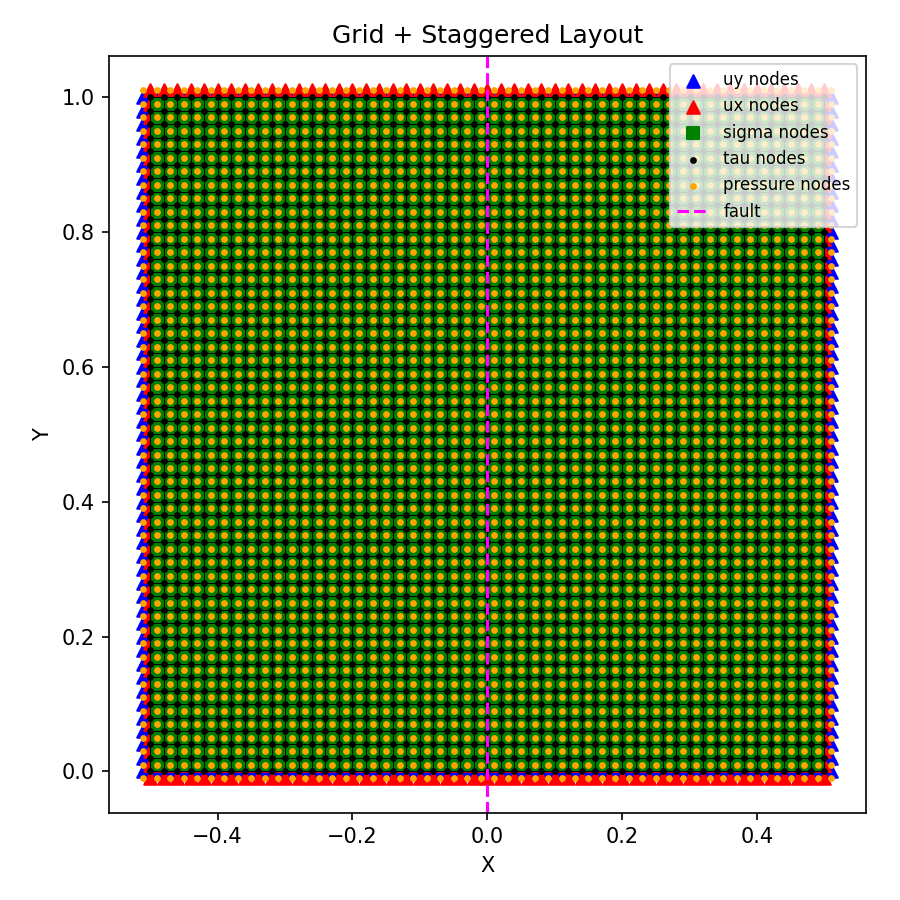
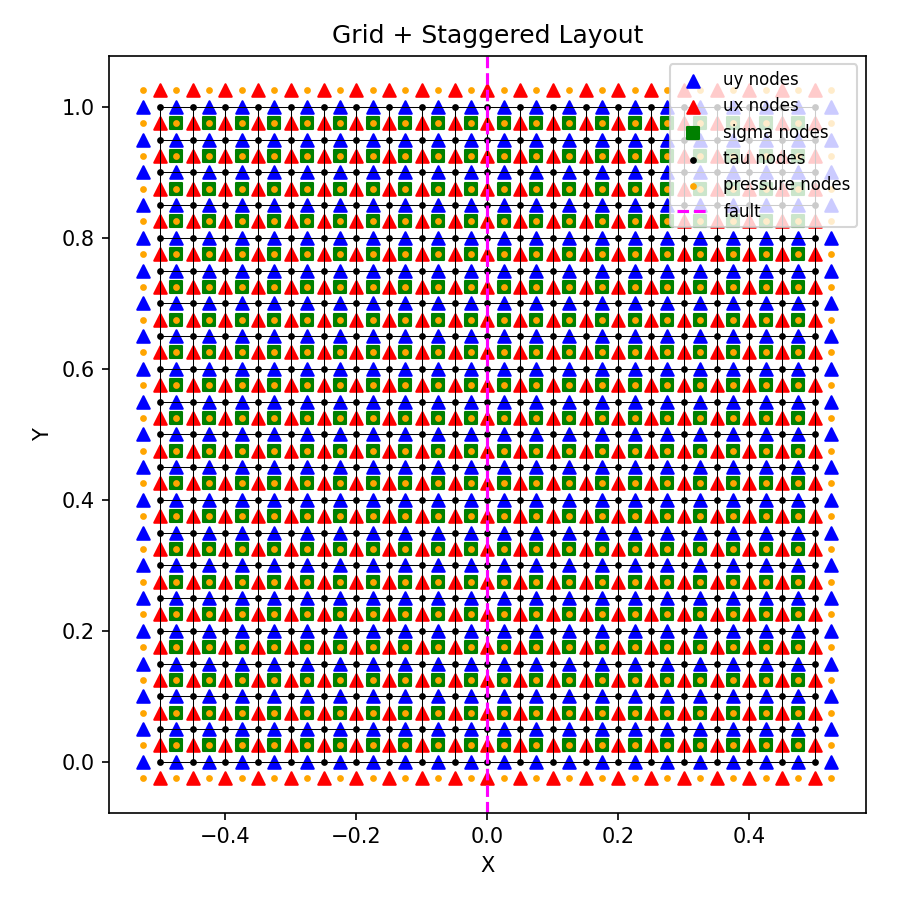
add structured para

diff --git a/src/fastslippy/pre_processing/model_parameters.py b/src/fastslippy/pre_processing/model_parameters.py
@@ -11,7 +11,41 @@ __license__     = "MIT License"
 
 import numpy as np
 
+from enum import Enum
 from dataclasses import dataclass, field
+
+class BCType(str, Enum):
+    FIXED = "fixed"
+    FREE = "free"
+    VELOCITY = "velocity"
+
+@dataclass
+class BoundaryConditions:
+    """Boundary conditions for the model. Edit the defaults here 
+    or pass keyword arguments to the constructor."""
+    left: BCType = BCType.FIXED
+    right: BCType = BCType.VELOCITY
+    top: BCType = BCType.FIXED
+    bottom: BCType = BCType.FIXED
+
+class LoadingRegion(str, Enum):
+    RIGHT_BLOCK = "right_block"
+    LEFT_BLOCK = "left_block"
+
+@dataclass
+class LoadingConditions:
+    """Loading conditions for the model. Edit the defaults here 
+    or pass keyword arguments to the constructor."""
+
+    yr = 365 * 24 * 3600.0      # Seconds in a year
+    tload: float = 0.0 * yr     # Time to apply pressure rate change [s]
+
+    # --- Pressure rate ---
+    dPdt_pre: float = 0.0       # Pressure rate before depletion [Pa/s]
+    dPdt_post: float = -0.0127  # Pressure rate after depletion starts [Pa/s]
+
+    region: LoadingRegion = (LoadingRegion.RIGHT_BLOCK)
+    loading_velocity: float = 1e-9
 
 @dataclass
 class ModelParameters:
@@ -29,7 +63,7 @@ class ModelParameters:
     Ny: int = 11                # Vertical grid points    (must be odd)
 
     # --- Material ---
-    rho: float = 2650 #2400.0          # Rock density [kg/m³]
+    rho: float = 2650            # Rock density [kg/m³]
     rhof: float = 1150.0         # Fluid density [kg/m³]
     rhog: float = 200.0          # Gas density [kg/m³]
     Vp: float = 0.0              # Far-field loading rate [m/s]
@@ -37,9 +71,10 @@ class ModelParameters:
     nu: float = 0.25             # Poisson's ratio
     g: float = 9.81              # Gravitational acceleration [m/s²]
     K0: float = 0.75             # Ratio σ_min / σ_max
-    E: float = 0.0              # Young's modulus [Pa] 
+    E: float = 0.0               # Young's modulus [Pa] 
 
     # --- Rate-and-state defaults (used when heterogeneous profile is off) ---
+    friction_law: str = "rate_state"
     mu0: float = 0.72             # Reference friction coefficient
     V0: float = 1e-6             # Reference slip rate [m/s]
     a0: float = 0.0012             # Direct effect (homogeneous fallback)
@@ -52,12 +87,6 @@ class ModelParameters:
     Nt: int = 1000               # Number of time steps
     dt_init: float = 1e-5         # Initial time step [s]
     dt_max: float = 0.002          # Maximum time step [s]
-    yr = 365 * 24 * 3600.0       # Seconds in a year
-    tload: float = 0.0 * yr     # Time to apply pressure rate change [s]  #TODO: CHECK
-
-    # --- Pressure rate ---
-    dPdt_pre: float = 0.0       # Pressure rate before depletion [Pa/s]
-    dPdt_post: float = -0.0127  # Pressure rate after depletion starts [Pa/s]
 
     # --- Output intervals ---
     output_interval: int = 10
@@ -67,6 +96,9 @@ class ModelParameters:
     G: float = field(init=False)
     lam: float = field(init=False)   # First Lamé parameter (λ)
     eta: float = field(init=False)   # Radiation damping coefficient
+
+    bc: BoundaryConditions = field(default_factory=BoundaryConditions)
+    loading: LoadingConditions = field(default_factory=LoadingConditions)
 
     def __post_init__(self):
         

diff --git a/src/fastslippy/solver/matrix_builder_shear.py b/src/fastslippy/solver/matrix_builder_shear.py
@@ -28,14 +28,6 @@ class MatrixBuilderShear(MatrixBuilder):
     def __init__(self, p: ModelParameters, grid: Grid):
         super().__init__(p, grid)
 
-    # Helper: global DOF indices
-    # @staticmethod
-    # def _dofs(ix: int, iy: int, Ny: int):
-    #     """Return (kux, kuy) 0-based DOF indices for node (ix, iy)."""
-    #     kux = ((ix) * (Ny + 1) + iy) * 2        # ux DOF (0-based)
-    #     kuy = kux + 1                            # uy DOF (0-based)
-    #     return kux, kuy
-
     def build_LH(self) -> sparse.csr_matrix:
         p, g = self.p, self.grid
         Nx, Ny, N = p.Nx, p.Ny, g.N
@@ -128,21 +120,12 @@ class MatrixBuilderShear(MatrixBuilder):
                     r_lam = (lam + 2*G) / G
                     if iy == 0:
                         add(kux, kux, 1)
-                        # if ix < mid:
-                        #     add(kux, kux, 1)
-                        # else:
-                        #     add(kux, kux, 1); add(kux, kux + 2, -1)
                     elif iy == Ny:
                         add(kux, kux, 1)
-                        # if ix < mid:
-                        #     add(kux, kux, 1)
-                        # else:
-                        #     add(kux, kux, 1); add(kux, kux - 2, -1)
                     elif ix == 0:
                         add(kux, kux, 1)
                     elif ix == Nx - 1:
                         add(kux, kux, 1)
-                        #add(kux, kux, 1); add(kux, kux - (Ny+1)*2, -1)
                     elif ix == mid:
                         # Fault column – normal stress jump condition
                         add(kux, kux,              -2*r_lam)

diff --git a/src/fastslippy/fast_slip_py.py b/src/fastslippy/fast_slip_py.py
@@ -100,7 +100,7 @@ class FastSlipPy:
 
         # ── initialise / load checkpoint ──
         if not self.checkpointer:
-            dPdt = p.dPdt_pre
+            dPdt = p.loading.dPdt_pre
             self._build_and_factor_LH(dPdt)
         else:
             ckpt = self.output.load_checkpoint(self.checkpointer)
@@ -130,7 +130,7 @@ class FastSlipPy:
 
             # Phase transition: pre → post depletion
             if phase == 1:
-                dPdt  = p.dPdt_post
+                dPdt  = p.loading.dPdt_post
                 self._build_and_factor_LH(dPdt)
                 dt    = p.dt_init
                 dt_max = p.dt_max
@@ -150,16 +150,16 @@ class FastSlipPy:
             dt      = min(min(1.2 * dt, dt_cand), dt_max)
 
             # Clamp dt so we hit tload exactly
-            if phase == 0 and t + dt >= p.tload:
-                dt    = p.tload - t
+            if phase == 0 and t + dt >= p.loading.tload:
+                dt    = p.loading.tload - t
                 phase = 1
 
             # ── aging law + fault advance ──
             self.fault.advance(dt, self.tauqs[:, mid], self.stress)
 
-            if it <= 10000:
+            if it <= 1000:
                 v_load = 1e-4
-            elif it <= 20000:
+            elif it <= 2000:
                 v_load = 1e-4
             else:
                 v_load = 1e-5
@@ -264,7 +264,7 @@ if __name__ == "__main__":
 
     params = ModelParameters()
 
-    model = FaultSlipPy(params=params, output_dir="output")
+    model = FastSlipPy(params=params, output_dir="output")
     model.run()
     fig = model.grid.plot_mesh()
     fig.show()

diff --git a/examples/run_FastSlipPy.py b/examples/run_FastSlipPy.py
@@ -26,7 +26,7 @@ if __name__ == "__main__":
         alpha = 90.0,
         xsize = 1.0,
         ysize = 1.0,
-        Nx=51, Ny=51,
+        Nx=21, Ny=21,
         Nt=15000,
         output_interval=1,
         checkpoint_interval=5000,
